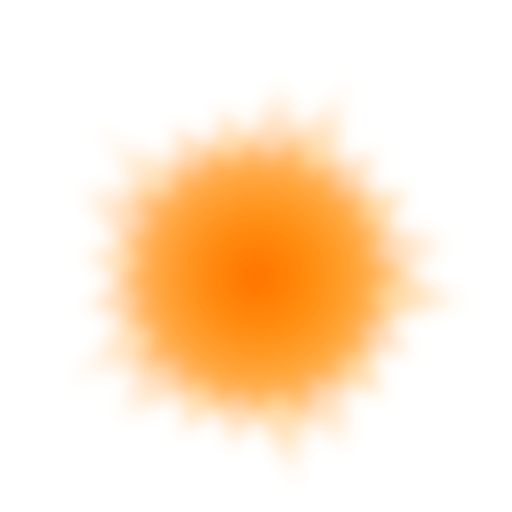
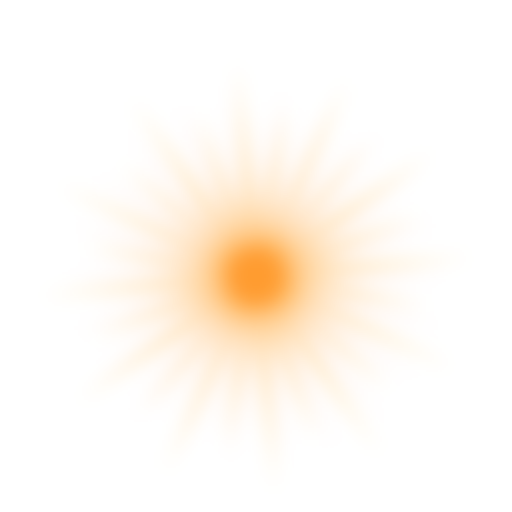
godray to cauldonr

diff --git a/Assets/Scripts/Cauldron/Godray.cs b/Assets/Scripts/Cauldron/Godray.cs
@@ -4,6 +4,16 @@ using UnityEngine;
 
 public class Godray : MonoBehaviour
 {
+    public Transform quad1;
+    public Transform quad2;
+    public AnimationCurve appear;
+    
+    public float targetScale = 2f;
+    
+    public float appearTime;
+    public bool visible = false;
+    private float appearPhase = 0f;
+    
     // Start is called before the first frame update
     void Start()
     {
@@ -13,6 +23,18 @@ public class Godray : MonoBehaviour
     // Update is called once per frame
     void Update()
     {
+        if(this.visible)
+            this.appearPhase += Time.deltaTime/this.appearTime;
+        else
+            this.appearPhase -= Time.deltaTime/this.appearTime;
+            
+        this.appearPhase = Mathf.Clamp( this.appearPhase, 0f, 1f);
+        float s = appear.Evaluate(appearPhase) * targetScale;
+        this.quad1.localScale = new Vector3(s,s,s);
+        this.quad2.localScale = new Vector3(s,s,s);
+        
+        this.quad1.rotation = Quaternion.Euler( 0f, 0f, Time.time );
+        this.quad2.rotation = Quaternion.Euler( 0f, 0f, -Time.time*0.95f );
         
     }
 }
